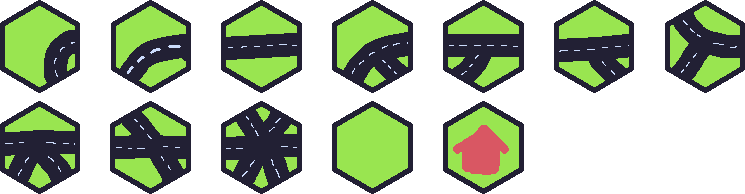
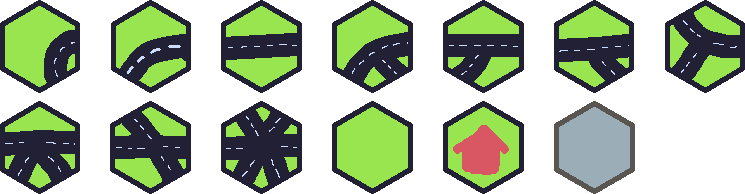
switch to sprites; more tweening

Changed region(s): [[0.7409, 0.5258, 0.8644, 1.0]]

diff --git a/src/map.rs b/src/map.rs
@@ -229,8 +229,6 @@ impl MapHex {
 
 pub fn spawn_grid(
     mut cmd: Commands,
-    mut meshes: ResMut<Assets<Mesh>>,
-    mut materials: ResMut<Assets<ColorMaterial>>,
     sprites: Res<TextureAssets>,
     completed_map: Option<Res<CompletedMap>>,
 ) {
@@ -246,66 +244,51 @@ pub fn spawn_grid(
         ..default()
     };
 
-    // materials
-    let border_material = materials.add(Color::DARK_GRAY.into());
-    let default_material = materials.add(Color::ANTIQUE_WHITE.into());
-
-    // mesh
-    let mesh = hexagonal_plane(&layout);
-    let mesh_handle = meshes.add(mesh);
-
     let mut graph = MapGraph::new_undirected();
     let mut hexes: HashMap<Hex, MapHex> = shapes::hexagon(Hex::ZERO, MAP_RADIUS)
         .map(|hex| {
             let pos = layout.hex_to_world_pos(hex);
             let hex_len = hex.ulength() as u64;
-            let entity = cmd
-                .spawn((
-                    ColorMesh2dBundle {
-                        transform: Transform::from_xyz(pos.x, pos.y, 0.0),
-                        mesh: mesh_handle.clone().into(),
-                        material: border_material.clone(),
+            cmd.spawn((
+                SpriteSheetBundle {
+                    transform: Transform {
+                        translation: pos.extend(0.),
+                        scale: Vec2::ZERO.extend(1.),
                         ..default()
                     },
-                    // todo: fix this tween?
-                    Animator::new(delay_tween(
-                        get_scale_tween(
-                            None,
-                            Vec3::ONE,
-                            350,
-                            if hex_len == MAP_RADIUS as u64 {
-                                EaseFunction::BackOut
-                            } else {
-                                EaseFunction::QuadraticOut
-                            },
-                        ),
-                        hex_len * 80,
-                    )),
-                    Resettable,
-                ))
-                .with_children(|b| {
-                    b.spawn(MaterialMesh2dBundle {
-                        mesh: meshes
-                            .add(shape::RegularPolygon::new(HEX_SIZE_INNER, 6).into())
-                            .into(),
-                        material: default_material.clone(),
-                        transform: Transform::from_xyz(0., 0., 0.1),
-                        ..default()
-                    });
-                    b.spawn(Text2dBundle {
-                        text: Text::from_section(
-                            format!("{},{}", hex.x, hex.y),
-                            TextStyle {
-                                font_size: 17.0,
-                                color: Color::BLACK,
-                                ..default()
-                            },
-                        ),
-                        transform: Transform::from_xyz(0.0, 0.0, 10.0),
-                        ..default()
-                    });
-                })
-                .id();
+                    sprite: TextureAtlasSprite::new(12),
+                    texture_atlas: sprites.tiles.clone(),
+                    ..default()
+                },
+                Animator::new(delay_tween(
+                    get_scale_tween(
+                        None,
+                        Vec3::ONE,
+                        350,
+                        if hex_len == MAP_RADIUS as u64 {
+                            EaseFunction::BackOut
+                        } else {
+                            EaseFunction::QuadraticOut
+                        },
+                    ),
+                    hex_len * 80,
+                )),
+                Resettable,
+            ))
+            .with_children(|b| {
+                b.spawn(Text2dBundle {
+                    text: Text::from_section(
+                        format!("{},{}", hex.x, hex.y),
+                        TextStyle {
+                            font_size: 17.0,
+                            color: Color::BLACK,
+                            ..default()
+                        },
+                    ),
+                    transform: Transform::from_xyz(0.0, 0.0, 10.0),
+                    ..default()
+                });
+            });
             (hex, MapHex::new(&mut graph))
         })
         .collect();
@@ -346,12 +329,17 @@ pub fn spawn_grid(
                             SpriteSheetBundle {
                                 transform: Transform {
                                     translation: layout.hex_to_world_pos(hex).extend(1.),
+                                    scale: Vec2::ZERO.extend(1.),
                                     ..default()
                                 },
                                 sprite: TextureAtlasSprite::new(11),
                                 texture_atlas: sprites.tiles.clone(),
                                 ..default()
                             },
+                            Animator::new(delay_tween(
+                                get_scale_tween(None, Vec3::ONE, 400, EaseFunction::BackOut),
+                                500 + house_hexes.len() as u64 * 80,
+                            )),
                             Resettable,
                         ))
                         .id();
@@ -383,18 +371,4 @@ pub fn spawn_grid(
 
     cmd.insert_resource(WorldLayout(layout));
     cmd.insert_resource(world_map);
-}
-
-/// Compute a bevy mesh from the layout
-fn hexagonal_plane(hex_layout: &HexLayout) -> Mesh {
-    let mesh_info = PlaneMeshBuilder::new(hex_layout)
-        .facing(Vec3::Z)
-        .with_scale(Vec3::splat(1.075))
-        .build();
-
-    Mesh::new(PrimitiveTopology::TriangleList)
-        .with_inserted_attribute(Mesh::ATTRIBUTE_POSITION, mesh_info.vertices)
-        .with_inserted_attribute(Mesh::ATTRIBUTE_NORMAL, mesh_info.normals)
-        .with_inserted_attribute(Mesh::ATTRIBUTE_UV_0, mesh_info.uvs)
-        .with_indices(Some(Indices::U16(mesh_info.indices)))
 }

diff --git a/src/piece.rs b/src/piece.rs
@@ -88,6 +88,9 @@ pub struct Piece {
 }
 
 #[derive(Component)]
+pub struct PlacedPiece;
+
+#[derive(Component)]
 pub struct PieceHexData {
     pub entity: Entity,
     side_index: u8,
@@ -127,17 +130,19 @@ fn spawn_pieces(
     map_layout: Res<WorldLayout>,
     blueprints: Res<HexBlueprints>,
     piece_q: Query<&Piece>,
+    placed_piece_q: Query<(), With<PlacedPiece>>,
     sprites: Res<TextureAssets>,
     mut meshes: ResMut<Assets<Mesh>>,
 ) {
     if piece_q.iter().len() < 1 {
         let mut rng = thread_rng();
+        let piece_tween_delay = if placed_piece_q.is_empty() { 950 } else { 200 };
 
-        for y in [-250., 0., 250.] {
+        for (piece_i, y) in [-250., 0., 250.].iter().enumerate() {
             let size = blueprints.size_weighted_index.sample(&mut rng) + 1;
             let mut hexes = HashMap::with_capacity(3);
 
-            for i in 0..size {
+            for size_i in 0..size {
                 let mut blueprint =
                     (&blueprints.hexes[blueprints.weighted_index.sample(&mut rng)]).clone();
 
@@ -150,7 +155,7 @@ fn spawn_pieces(
                 let mut blueprint = Some(&blueprint);
                 let mut hex = Hex::ZERO;
 
-                if i > 0 {
+                if size_i > 0 {
                     let prev: &PieceHexData = hexes.values().last().unwrap();
                     let mut connected = false;
 
@@ -160,7 +165,7 @@ fn spawn_pieces(
                         connected = rng.gen_bool(0.75);
                     }
 
-                    if i == 1 {
+                    if size_i == 1 {
                         let side = prev.connections.map_or(None, |connected_sides| {
                             connected_sides
                                 .iter()
@@ -183,7 +188,7 @@ fn spawn_pieces(
                             None => break,
                         };
                     } else {
-                        panic!("Size {i} is invalid");
+                        panic!("Size {size_i} is invalid");
                     }
                 }
 
@@ -240,7 +245,7 @@ fn spawn_pieces(
             let children: Vec<_> = hexes.values().map(|d| d.entity).collect();
 
             // todo: raise z to prevent z-fighting
-            let pos = Vec3::new(y, 400., 1.);
+            let pos = Vec3::new(*y, 400., 1.);
             cmd.spawn(SpatialBundle::from_transform(
                 Transform::from_translation(pos).with_scale(Vec2::ZERO.extend(1.)),
             ))
@@ -252,7 +257,7 @@ fn spawn_pieces(
                 InitialPosition(pos),
                 Animator::new(delay_tween(
                     get_scale_tween(None, Vec3::ONE, 300, EaseFunction::BackOut),
-                    150,
+                    piece_tween_delay + piece_i as u64 * 80,
                 )),
                 Resettable,
             ))
@@ -331,7 +336,9 @@ fn drag_piece_end(
             if let Ok((_, t, mut initial_pos, piece)) = piece_q.get_mut(parent.get()) {
                 if let Some(hex) = piece.target_hex {
                     initial_pos.0 = map_layout.hex_to_world_pos(hex).extend(t.translation.z);
-                    cmd.entity(parent.get()).remove::<Piece>();
+                    cmd.entity(parent.get())
+                        .remove::<Piece>()
+                        .insert(PlacedPiece);
 
                     // stop hexes from being pickable
                     if let Ok(children) = children_q.get(parent.get()) {
